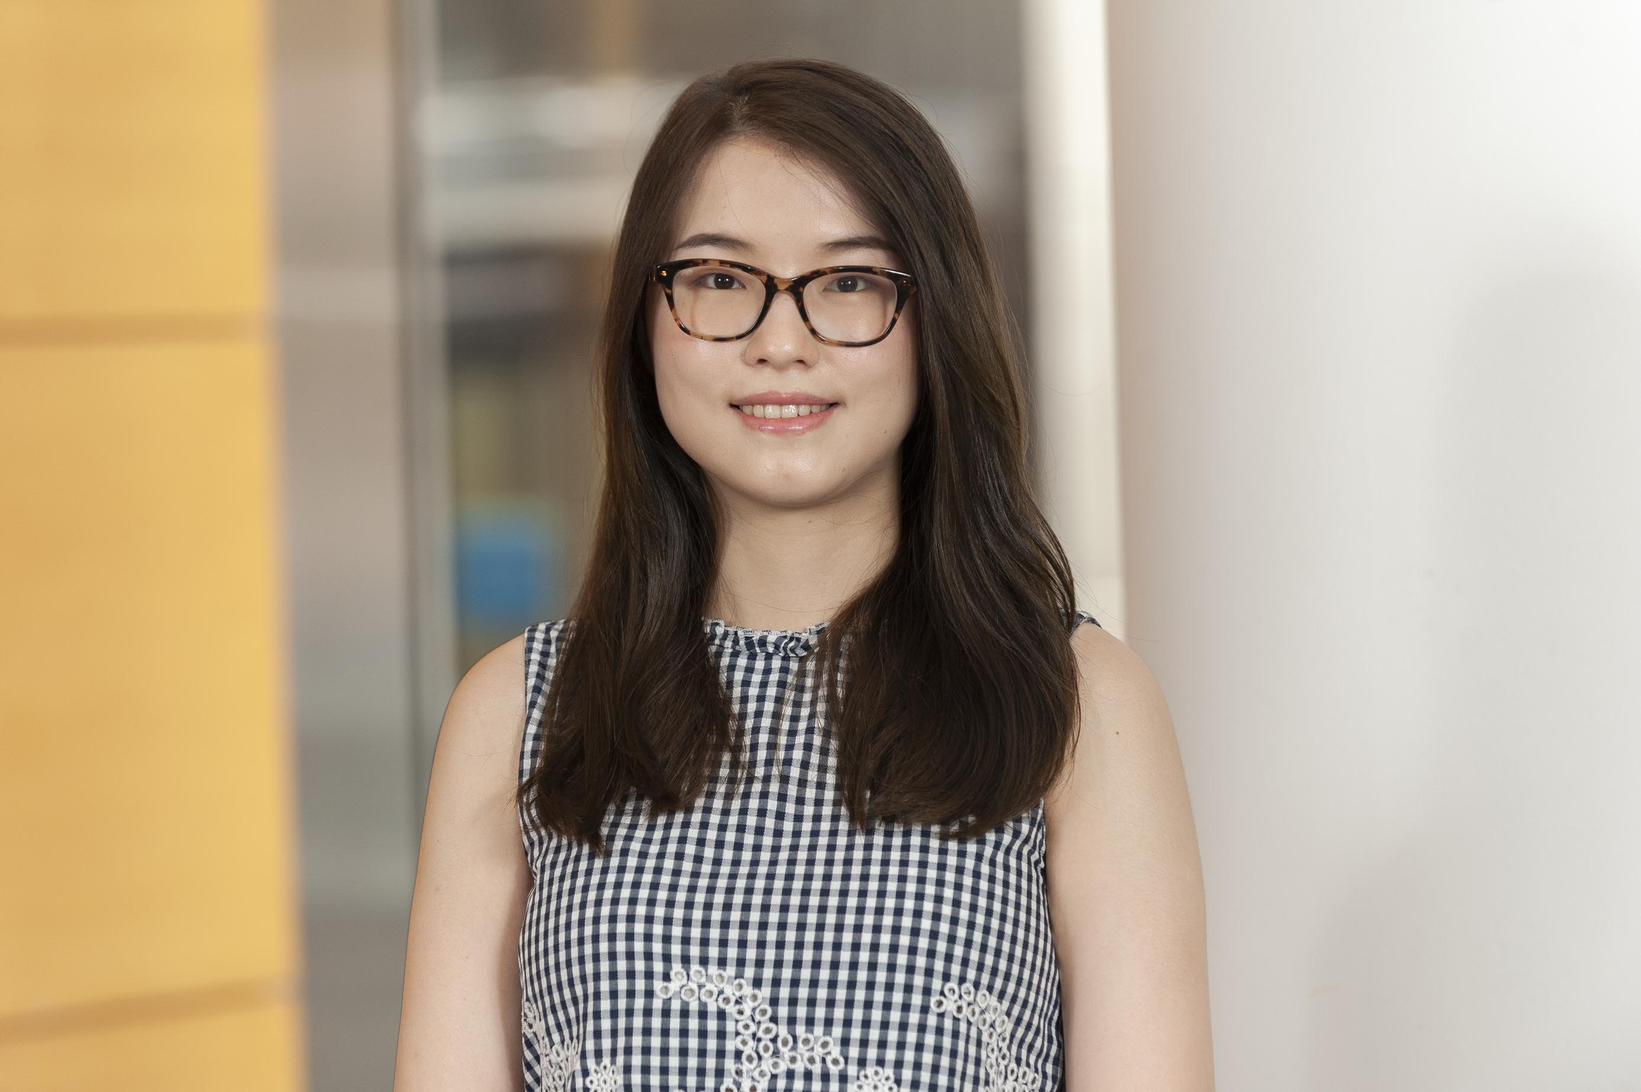
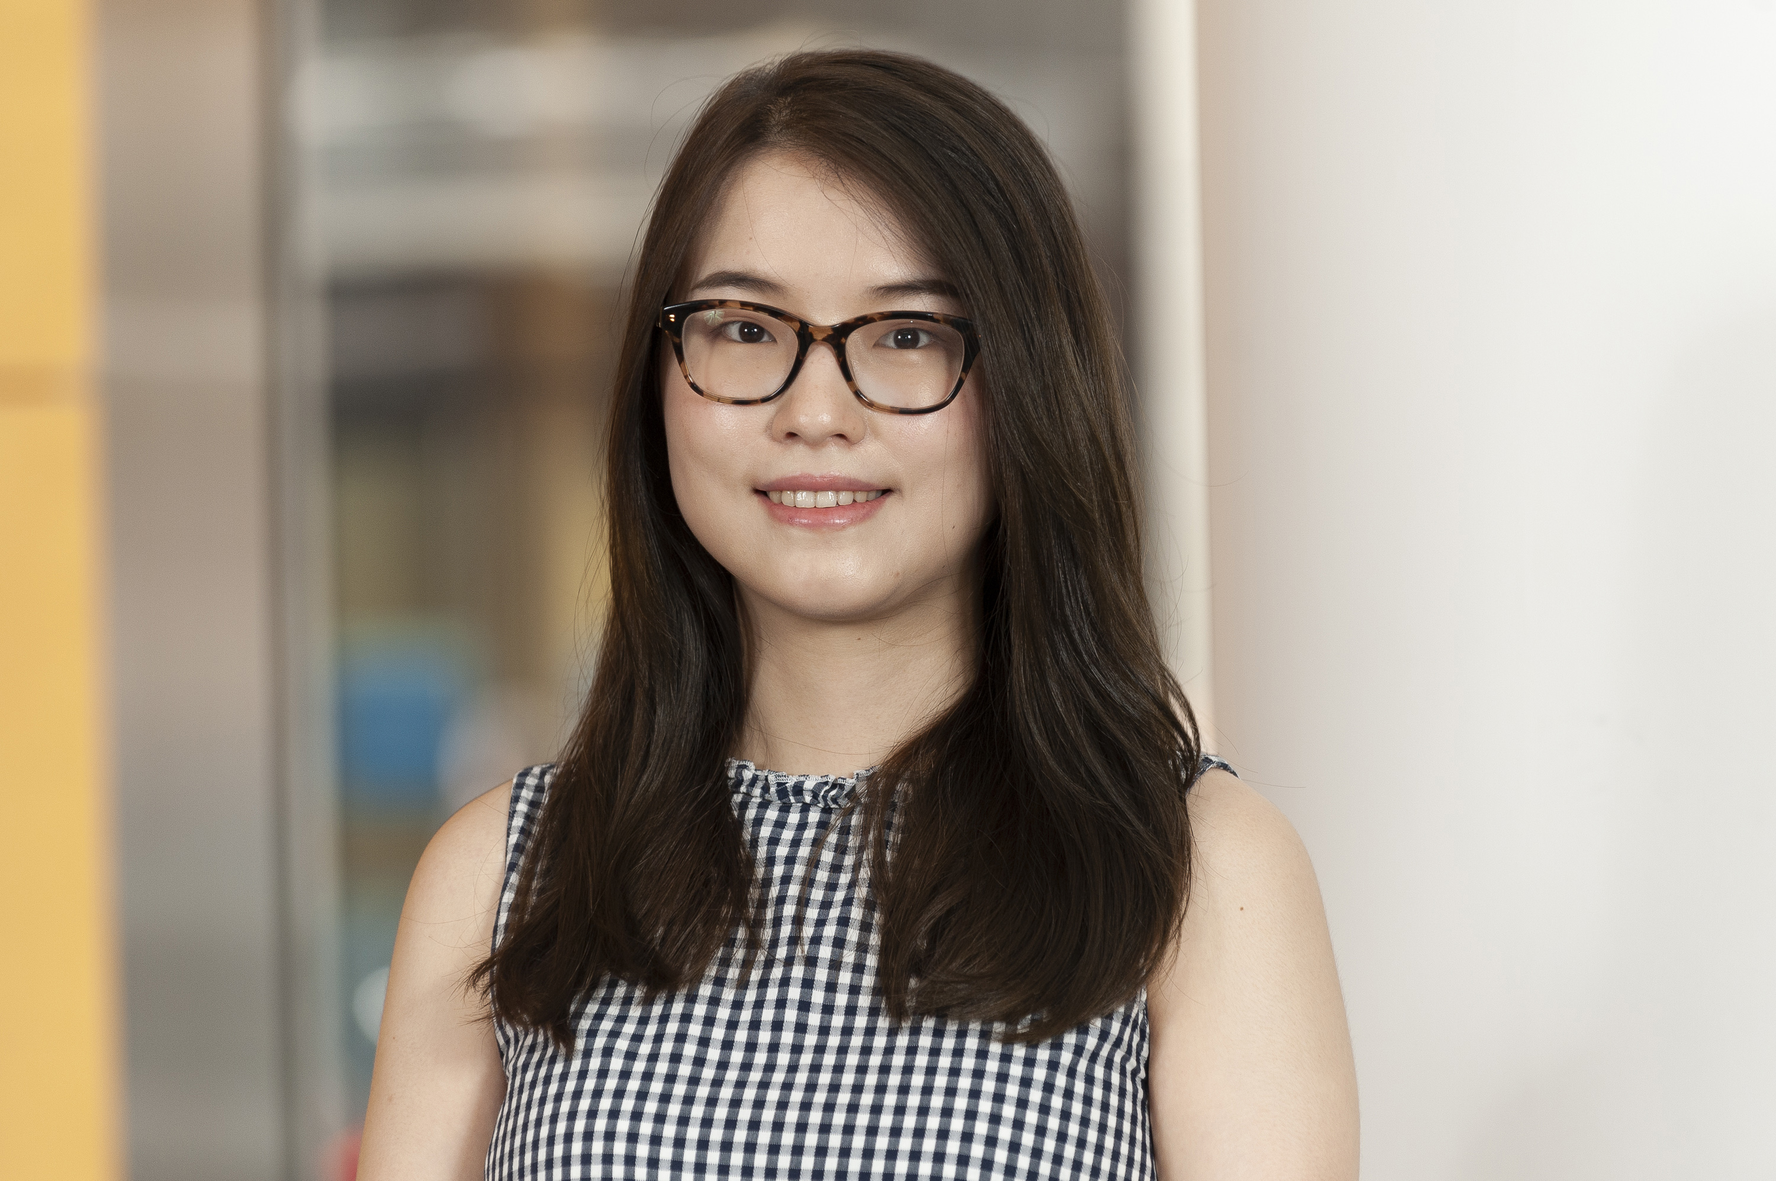
8/17 Minor edits
-Updated Yushi's staff pic
-Updated career page
-fixed T/C criteria table
-moved Desmond to alumni

diff --git a/frontend/src/components/JobDescriptions.vue b/frontend/src/components/JobDescriptions.vue
@@ -3,14 +3,14 @@
     <career-banner />
     <md-card class="news-card">
       <md-card-header>
-        <div class="md-title">Supervisor</div>
+        <div class="md-title">Manager</div>
         <router-link :to="{ name: 'team', params: { id: 7 } }">Research & Development</router-link>
         <div class="md-body">Open!</div>
         <!-- <div>Ref: 2021-48309</div> -->
       </md-card-header>
       <md-card-actions>
         <md-button @click="showJobDescriptionRDM = true" class="md-accent">Learn More</md-button>
-        <md-button href="https://careers.mskcc.org/jobs/job-details/2021-48309-manager-integrated-genomics-operation" target="_blank" class="md-primary">Apply </md-button>
+        <md-button href="https://careers.mskcc.org/jobs/job-details/2021-48309-manager-integrated-genomics-operations/" target="_blank" class="md-primary">Apply </md-button>
       </md-card-actions>
     </md-card>
 
@@ -21,9 +21,21 @@
         <div class="md-body">Open!</div>
       </md-card-header>
       <md-card-actions>
-        <md-button @click="showJobDescription42946 = true" class="md-accent">Learn More</md-button>
-        <md-button href="https://careers.mskcc.org/jobs/job-details/2021-48962-research-assistant/" target="_blank" class="md-primary"
-          >Apply
+        <md-button @click="showJobDescriptionEXPANDRA = true" class="md-accent">Learn More</md-button>
+        <md-button href="https://careers.mskcc.org/jobs/job-details/2021-48962-research-assistant/" target="_blank" class="md-primary">Apply
+        </md-button>
+      </md-card-actions>
+    </md-card>
+
+    <md-card class="news-card">
+      <md-card-header>
+        <div class="md-title">Research Assistant</div>
+        <router-link :to="{ name: 'team', params: { id: 5 } }">Sequencing Team</router-link>
+        <div class="md-body">Open!</div>
+      </md-card-header>
+      <md-card-actions>
+        <md-button @click="showJobDescriptionSeqRA = true" class="md-accent">Learn More</md-button>
+        <md-button href="https://careers.mskcc.org/jobs/job-details/2021-51799-research-assistant/" target="_blank" class="md-primary">Apply
         </md-button>
       </md-card-actions>
     </md-card>
@@ -35,14 +47,26 @@
         <div class="md-body">Coming soon</div>
       </md-card-header>
       <md-card-actions>
-        <md-button @click="showJobDescriptionSPA = true" class="md-accent">Learn More</md-button>
+        <md-button @click="showJobDescriptionSPMPC = true" class="md-accent">Learn More</md-button>
         <md-button href="mailto:genomics@mskcc.org?subject=SPM Project Coordinator" target="_blank" class="md-primary">Inquire </md-button>
       </md-card-actions>
     </md-card>
 
-    <md-dialog :md-active.sync="showJobDescriptionERA" :md-fullscreen="false" style="z-index: 400;">
+    <md-card class="news-card">
+      <md-card-header>
+        <div class="md-title">Research Tech (Temp)</div>
+        <router-link :to="{ name: 'team', params: { id: 4 } }">Nucleic Acid Team</router-link>
+        <div class="md-body">Coming soon</div>
+      </md-card-header>
+      <md-card-actions>
+        <md-button @click="showJobDescriptionNARA = true" class="md-accent">Learn More</md-button>
+        <md-button href="mailto:genomics@mskcc.org?subject=NA Temp Technician" target="_blank" class="md-primary">Inquire </md-button>
+      </md-card-actions>
+    </md-card>
+
+    <md-dialog :md-active.sync="showJobDescriptionNARA" :md-fullscreen="false" style="z-index: 400;">
       <md-dialog-content md-dynamic-height>
-        <strong>As a Research Assistant in the Library Preparation Team, you will:</strong>
+        <strong>As a Research Technician in the Library Preparation Team, you will:</strong>
         <ul>
           <li>Prepare DNA and RNA libraries for NGS following established SOPs.</li>
           <li>Prepare reagents and set up runs for robots.</li>
@@ -51,57 +75,39 @@
           <li>Communicate with vendor technical support and sales representatives.</li>
           <li>Maintain and coordinate documentation for assay tracking and results for review/reporting through iLabs and LIMS.</li>
         </ul>
-
         <strong>You have:</strong>
         <ul>
-          <li>
-            A Bachelor’s Degree in a Biological, Chemistry, or Science related field with at least 3 years of relevant full-time experience
-            or a master’s degree with 1-2 years full-time relevant experience.
-          </li>
+          <li>A Bachelor’s Degree in a Biological, Chemistry, or Science related field.</li>
           <li>Previous exposure to making libraries for NGS platform, manually and automated is preferable.</li>
           <li>Strong organizational, prioritization and time management skills.</li>
         </ul>
       </md-dialog-content>
-
       <md-dialog-actions>
-        <md-button class="md-primary" @click="showJobDescriptionERA = false">Close</md-button>
+        <md-button class="md-primary" @click="showJobDescriptionNARA = false">Close</md-button>
       </md-dialog-actions>
     </md-dialog>
 
-    <md-dialog :md-active.sync="showJobDescriptionSPA" :md-fullscreen="false" style="z-index: 400;">
+    <md-dialog :md-active.sync="showJobDescriptionSPMPC" :md-fullscreen="false" style="z-index: 400;">
       <md-dialog-content md-dynamic-height>
-        <strong>As a Senior Research Project Assistant, you will:</strong>
+        <strong>As a Project Coordinator in the Sample & Project Management Team, you will:</strong>
         <ul>
-          <li>
-            Participate in meetings with investigators to understand the scope of projects and effectively communicate the services provided
-            by IGO
-          </li>
-          <li>
-            Review all submissions for correctness and completeness, and work with project managers to guide investigators through
-            processing decisions that are in line with the goals of their projects.
-          </li>
+          <li>Participate in meetings with investigators to understand the scope of projects and effectively communicate the services provided by IGO</li>
+          <li>Review all submissions for correctness and completeness, and work with project managers to guide investigators through processing decisions that are in line with the goals of their projects.</li>
           <li>Analyze quantity and quality of samples using various instruments and communicate results electronically.</li>
-          <li>
-            Utilize the LIMS (Laboratory Information Management System) effectively to ensure the downstream processing team has relevant
-            and up-to-date information.
-          </li>
+          <li>Utilize the LIMS (Laboratory Information Management System) effectively to ensure the downstream processing team has relevant and up-to-date information.</li>
           <li>Investigate unexpected outputs and provide information to IGO leadership and investigators.</li>
           <li>Facilitate lab processing by maintaining freezer organization and storage in a LEAN way</li>
           <li>Receive samples from outside institutions and use liquid handling automation to aliquot nucleic acid materials.</li>
           <li>Work closely with staff from IGO and the CMO and maintain open and proactive lines of communication.</li>
         </ul>
-
         <strong>You have:</strong>
         <ul>
-          <li>
-            A Bachelor’s Degree in a Biological, Chemistry, or Science related field.
-          </li>
+          <li>A Bachelor’s Degree in a Biological, Chemistry, or Science related field.</li>
           <li>Experience handling DNA/RNA preferred.</li>
         </ul>
       </md-dialog-content>
-
       <md-dialog-actions>
-        <md-button class="md-primary" @click="showJobDescriptionSPA = false">Close</md-button>
+        <md-button class="md-primary" @click="showJobDescriptionSPMPC = false">Close</md-button>
       </md-dialog-actions>
     </md-dialog>
 
@@ -109,72 +115,35 @@
       <md-dialog-content md-dynamic-height>
         <strong>You are:</strong>
         <ul>
-          <li>
-            A highly experienced and skilled molecular biologist with sharp focus, attention to detail and good decision-making skills
-          </li>
-          <li>
-            Able to maintain detailed records of all experiments, drafts of technical procedures and written summaries pertaining to
-            research work
-          </li>
-          <li>
-            A quick learner and strong problem-solver who sees the forest and the trees and is able to quickly identify anomalies in data
-            and uncover their source
-          </li>
-          <li>
-            Adept at multitasking, planning, prioritizing and re-prioritizing work to meet goals and commitments with minimal direction in a
-            multifaceted environment
-          </li>
-          <li>
-            A highly motivated person capable of building positive relationships within the lab and with internal and external collaborators
-            including data analysts
-          </li>
-          <li>
-            Someone with a strong background of mentorship who is interested in the success of others and willing to evaluate performance
-            and provide feedback as a manager
-          </li>
-          <li>
-            An outstanding communicator and clear presenter, capable of determining how best to reach different audiences and executing
-            communications based on that understanding whether it be internal lab meetings or institutional seminars
-          </li>
-          <li>
-            A creative thinker who engages in thinking outside the box and has an appreciation for the “business” aspect of working at the
-            core
-          </li>
+          <li>A highly experienced and skilled molecular biologist with sharp focus, attention to detail and good decision-making skills</li>
+          <li>Able to maintain detailed records of all experiments, drafts of technical procedures and written summaries pertaining to research work</li>
+          <li>A quick learner and strong problem-solver who sees the forest and the trees and is able to quickly identify anomalies in data and uncover their source</li>
+          <li>Adept at multitasking, planning, prioritizing and re-prioritizing work to meet goals and commitments with minimal direction in a multifaceted environment</li>
+          <li> A highly motivated person capable of building positive relationships within the lab and with internal and external collaborators including data analysts</li>
+          <li>Someone with a strong background of mentorship who is interested in the success of others and willing to evaluate performance and provide feedback as a manager</li>
+          <li>An outstanding communicator and clear presenter, capable of determining how best to reach different audiences and executing communications based on that understanding whether it be internal lab meetings or institutional seminars</li>
+          <li>A creative thinker who engages in thinking outside the box and has an appreciation for the “business” aspect of working at the core</li>
           <li>Consistently achieving results, even under tough circumstances</li>
         </ul>
-
-        <strong>You need!</strong>
+        <strong>You need:</strong>
         <ul>
-          <li>
-            A Ph. D. in molecular biology, biochemistry or a related discipline with at least 3 years of post-doctoral experience in an
-            academic environment
-          </li>
-          <li>
-            Experience working in experimental and computational genomic methodologies. A background in NGS assay development is highly
-            desired. Experience with imaging technologies is a plus.
-          </li>
+          <li>A Ph.D. in molecular biology, biochemistry or a related discipline with at least 3 years of post-doctoral experience in an academic environment</li>
+          <li>Experience working in experimental and computational genomic methodologies. A background in NGS assay development is highly desired. Experience with imaging technologies is a plus.</li>
           <li>Excellent interpersonal, written and oral communication skills</li>
         </ul>
       </md-dialog-content>
-
       <md-dialog-actions>
         <md-button class="md-primary" @click="showJobDescriptionRDM = false">Close</md-button>
       </md-dialog-actions>
     </md-dialog>
 
-    <md-dialog :md-active.sync="showJobDescription42946" :md-fullscreen="false" style="z-index: 400;">
+    <md-dialog :md-active.sync="showJobDescriptionEXPANDRA" :md-fullscreen="false" style="z-index: 400;">
       <md-dialog-content md-dynamic-height>
         <strong>As a Research Assistant in the Extraction Team, you will:</strong>
         <ul>
-          <li>
-            Extract nucleic acids from a variety of biomaterial (fresh frozen and formalin-fixed paraffin embedded tissue, cell line, blood,
-            plasma, serum, saliva, nails, etc)
-          </li>
+          <li>Extract nucleic acids from a variety of biomaterial (fresh frozen and formalin-fixed paraffin embedded tissue, cell line, blood, plasma, serum, saliva, nails, etc)</li>
           <li>Perform quality assurance and quality control of extracted material</li>
-          <li>
-            Process samples for droplet digital PCR projects. This includes assays design and optimization, sample processing and data
-            curation.
-          </li>
+          <li>Process samples for droplet digital PCR projects. This includes assays design and optimization, sample processing and data curation.</li>
           <li>Prepare DNA libraries for NGS following established SOPs</li>
           <li>Work with your team to create workflow following LEAN principles.</li>
           <li>Communicate with vendor technical support and sales representatives.</li>
@@ -185,20 +154,37 @@
 
         <strong>You have:</strong>
         <ul>
-          <li>
-            A Bachelor’s Degree in a Biological, Chemistry, or Science related field with at least 3 years of relevant full-time experience
-            or a master’s degree with 1-2 years full-time relevant experience.
-          </li>
-          <li>
-            Previous exposure to purifying nucleic acids for NGS platform, knowledge of digital PCR and experience with cells and FFPE
-            samples is preferable.
-          </li>
+          <li>A Bachelor’s Degree in a Biological, Chemistry, or Science related field with at least 3 years of relevant full-time experience or a master’s degree with 1-2 years full-time relevant experience.</li>
+          <li>Previous exposure to purifying nucleic acids for NGS platform, knowledge of digital PCR and experience with cells and FFPE samples is preferable.</li>
           <li>Strong organizational, prioritization and time management skills.</li>
         </ul>
       </md-dialog-content>
-
       <md-dialog-actions>
-        <md-button class="md-primary" @click="showJobDescription42946 = false">Close</md-button>
+        <md-button class="md-primary" @click="showJobDescriptionEXPANDRA = false">Close</md-button>
+      </md-dialog-actions>
+    </md-dialog>
+
+    <md-dialog :md-active.sync="showJobDescriptionSeqRA" :md-fullscreen="false" style="z-index: 400;">
+      <md-dialog-content md-dynamic-height>
+        <strong>As a Research Assistant in the Sequencing Team, you will:</strong>
+        <ul>
+          <li>QC NGS libraries following established SOPs.</li>
+          <li>Plan and pool NGS libraries according to sequencing request.</li>
+          <li>Load and run Illumina sequencers according to pre-established run plan.</li>
+          <li>Review analysis of NGS runs in order to maintain the high-quality standards.</li>
+          <li>Assist group leader to create an efficient and error-proof workflow – and troubleshoot data accordingly.</li>
+          <li>Communicate with vendor technical support and sales representatives.</li>
+          <li>Maintain and coordinate documentation for assay tracking and results for review/reporting through iLabs and LIMS.</li>
+        </ul>
+        <strong>You have:</strong>
+        <ul>
+          <li>A Bachelor’s Degree in a Biological, Chemistry, or Science related field with at least 3 years of relevant full-time experience or a master’s degree with 1-2 years full-time relevant experience. </li>
+          <li>Previous exposure to NGS library preparation and Illumina sequencer loading is preferable.</li>
+          <li>Strong organizational, prioritization and time management skills.</li>
+        </ul>
+      </md-dialog-content>
+      <md-dialog-actions>
+        <md-button class="md-primary" @click="showJobDescriptionSeqRA = false">Close</md-button>
       </md-dialog-actions>
     </md-dialog>
   </div>
@@ -212,10 +198,11 @@ export default {
   components: { CareerBanner },
   data: function() {
     return {
-      showJobDescriptionERA: false,
-      showJobDescriptionSPA: false,
+      showJobDescriptionSPMPC: false,
+      showJobDescriptionNARA: false,
       showJobDescriptionRDM: false,
-      showJobDescription42946: false,
+      showJobDescriptionEXPANDRA: false,
+      showJobDescriptionSeqRA: false,
     };
   },
 };

diff --git a/frontend/src/data.js b/frontend/src/data.js
@@ -64,7 +64,7 @@ export const teams = [
       { name: 'Meghanne Lomibao', role: 'Project Coordinator', photoName: 'Lomibao_Meghanne' },
       { name: 'Tressa Octave', role: 'Senior Project Assistant', photoName: 'Octave_Tressa' },
       { name: 'Valerie Patritti', role: 'Project Manager', photoName: 'Patritti_Valerie' },
-      { name: 'Position Opening Soon!', role: 'Project Coordinator' },
+      // { name: 'Position Opening Soon!', role: 'Project Coordinator' },
     ],
   },
   {
@@ -74,7 +74,6 @@ export const teams = [
       'EXPAND stands for: Extraction, pathology, Archer DX, and digital droplet PCR, but also literally refers to their interest in integrating new platforms and advancing research technology to remain at the cutting edge for our users. The EXPAND team draws upon IGO’s philosophy of constant and open communication and aims to join you in detailed, scientific discussions about your projects, to meet your needs and to work together to advance science, building long-term, trusting relationships in the process.',
     members: [
       { name: 'Andrea Farina', role: 'Manager, IGO', photoName: 'Farina_Andrea' },
-      { name: 'Desmond Lambe', role: 'Intern', photoName: 'Lambe_Desmond' },
       { name: 'Dorothy Guzowski', role: 'Senior Research Assistant', photoName: 'Guzowski_Dorothy' },
       { name: 'Jordana Barnett', role: 'Intern', photoName: 'Barnett_Jordana' },
       { name: 'Julienne Lomibao', role: 'Research Technician', photoName: 'Lomibao_Julienne' },
@@ -99,7 +98,7 @@ export const teams = [
       { name: 'Satoko Murakami', role: 'Research Assistant', photoName: 'Murakami_Satoko' },
       { name: 'Sophie Kleinberg', role: 'Intern', photoName: 'Kleinberg_Sophie' },
       { name: 'Yushi Wu', role: 'Research Assistant', photoName: 'Wu_Yushi' },
-      // { name: 'Open Position!', role: 'Research Assistant' },
+      { name: 'Open Position!', role: 'Research Technician (Temporary)' },
     ],
   },
   {
@@ -113,6 +112,7 @@ export const teams = [
       { name: 'Jim Chen', role: 'Senior Research Technician', photoName: 'Chen_Jim' },
       { name: 'Keumsil Hwang', role: 'Senior Research Assistant', photoName: 'Hwang_Keumsil' },
       { name: 'Robert Hong', role: 'Senior Research Technician', photoName: 'Hong_Robert' },
+      { name: 'Open Position!', role: 'Research Assistant' },
     ],
   },
   {
@@ -139,7 +139,7 @@ export const teams = [
       { name: 'Cassidy Illum', role: 'Research Technician', photoName: 'Illum_Cassidy' },
       { name: 'Elijah Castro', role: 'Research Technician', photoName: 'Castro_Elijah' },
       { name: 'Juan Li', role: 'Manager, IGO', photoName: 'Li_Juan' },
-      { name: 'Open Position!', role: 'Supervisor' },
+      { name: 'Open Position!', role: 'Manager' },
     ],
   },
   {
@@ -149,6 +149,7 @@ export const teams = [
       'IGO technicians gain valuable skills and cutting-edge knowledge while working in a fast-paced environment. Many leverage that experience into advanced degrees and training to further their careers in science and medicine.',
     members: [
       { name: 'Denise Chen', role: 'Philadelphia College of Osteopathic Medicine', photoName: 'Chen_Denise' },
+      { name: 'Desmond Lambe', role: 'Rensselaer Polytechnic Institute', photoName: 'Lambe_Desmond' },
       { name: "Josie D'Angelo", role: 'UC Berkeley ', photoName: 'Dangelo_Josie' },
       { name: 'Marisa Vanness', role: 'Geisinger Commonwealth School of Medicine', photoName: 'Vanness_Marisa' },
       { name: 'Michael Pantano', role: 'BU Questrom School of Business', photoName: 'Pantano_Michael' },

diff --git a/frontend/src/components/TissueCellCriteria.vue b/frontend/src/components/TissueCellCriteria.vue
@@ -147,7 +147,7 @@
         <md-table-cell>Bone marrow aspirate</md-table-cell>
         <md-table-cell rowspan="2">Frozen</md-table-cell>
         <md-table-cell>Tube or syringe</md-table-cell>
-        <md-table-cell rowspan="3">-20&deg;C</md-table-cell>
+        <md-table-cell rowspan="2">-20&deg;C</md-table-cell>
         <md-table-cell>Up to 200&mu;L</md-table-cell>
       </md-table-row>
       <md-table-row>
@@ -158,15 +158,18 @@
       <md-table-row>
         <md-table-cell rowspan="2">MissionBio Tapestri</md-table-cell>
         <md-table-cell rowspan="3">Single cell suspension</md-table-cell>
-        <md-table-cell>10% DMSO</md-table-cell>
+        <md-table-cell>PBS + 0.04% BSA</md-table-cell>
+        <md-table-cell>4&deg;C</md-table-cell>
         <md-table-cell rowspan="2">100K cells</md-table-cell>
       </md-table-row>
       <md-table-row>
-        <md-table-cell rowspan="2">PBS + 0.04% BSA</md-table-cell>
-        <md-table-cell rowspan="2">4&deg;C</md-table-cell>
+        <md-table-cell>10% DMSO</md-table-cell>
+        <md-table-cell>-20&deg;C</md-table-cell>
       </md-table-row>
       <md-table-row>
         <md-table-cell>MissionBio DNA + Protein</md-table-cell>
+        <md-table-cell>PBS + 0.04% BSA</md-table-cell>
+        <md-table-cell>4&deg;C</md-table-cell>
         <md-table-cell>2M cells</md-table-cell>
       </md-table-row>
       <md-table-row>
